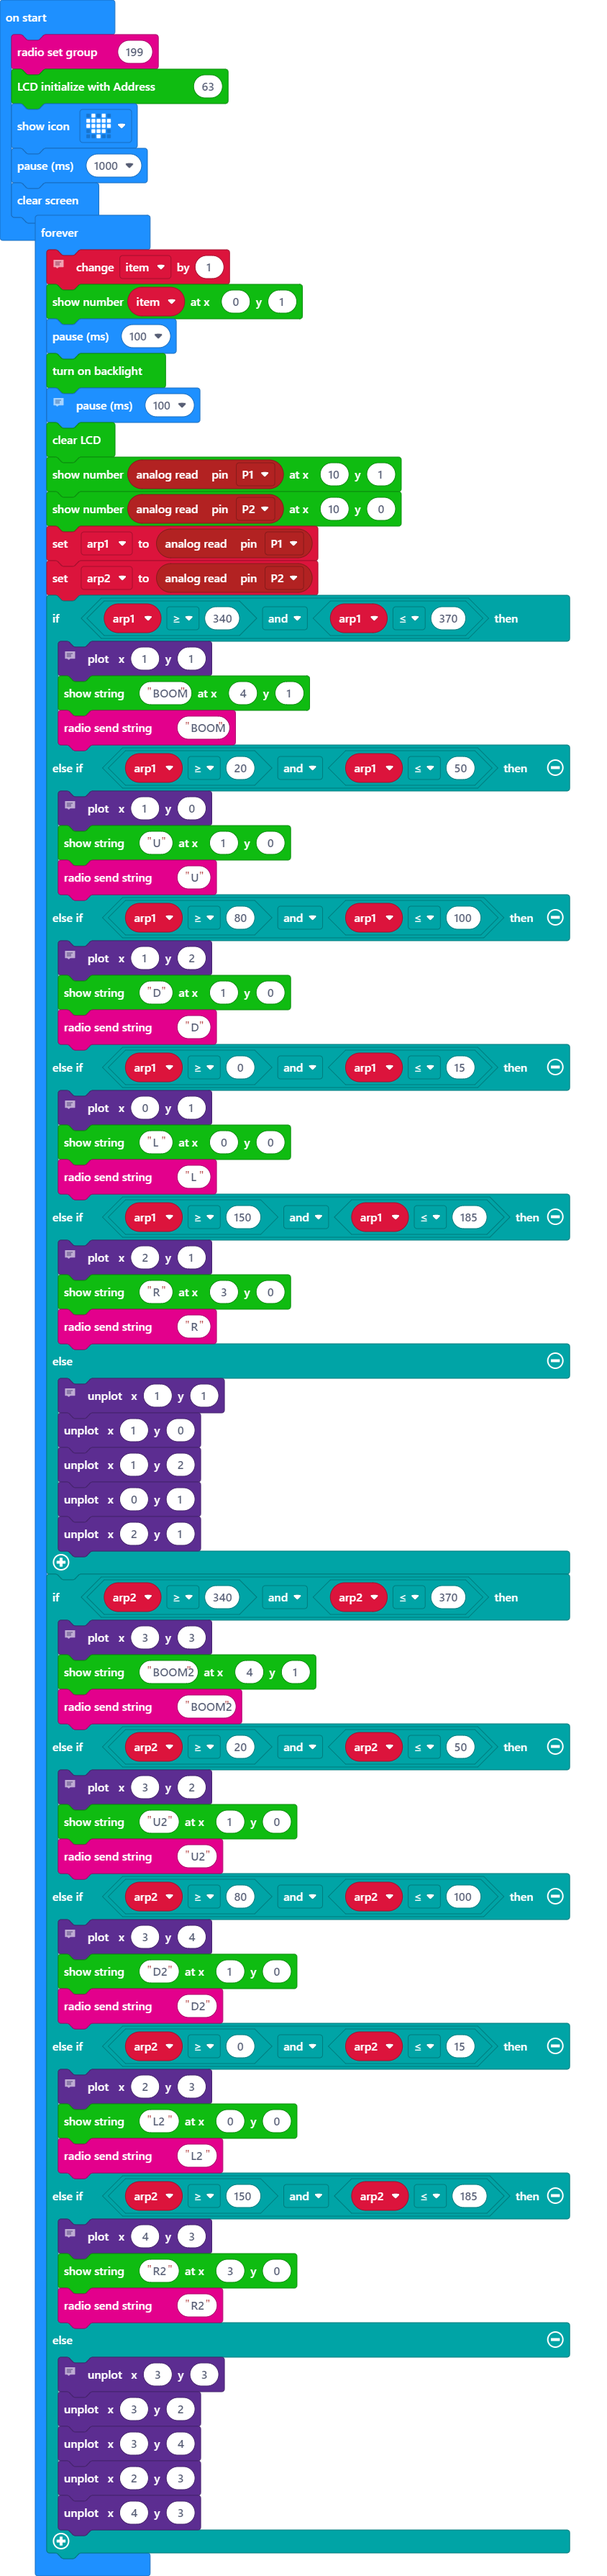
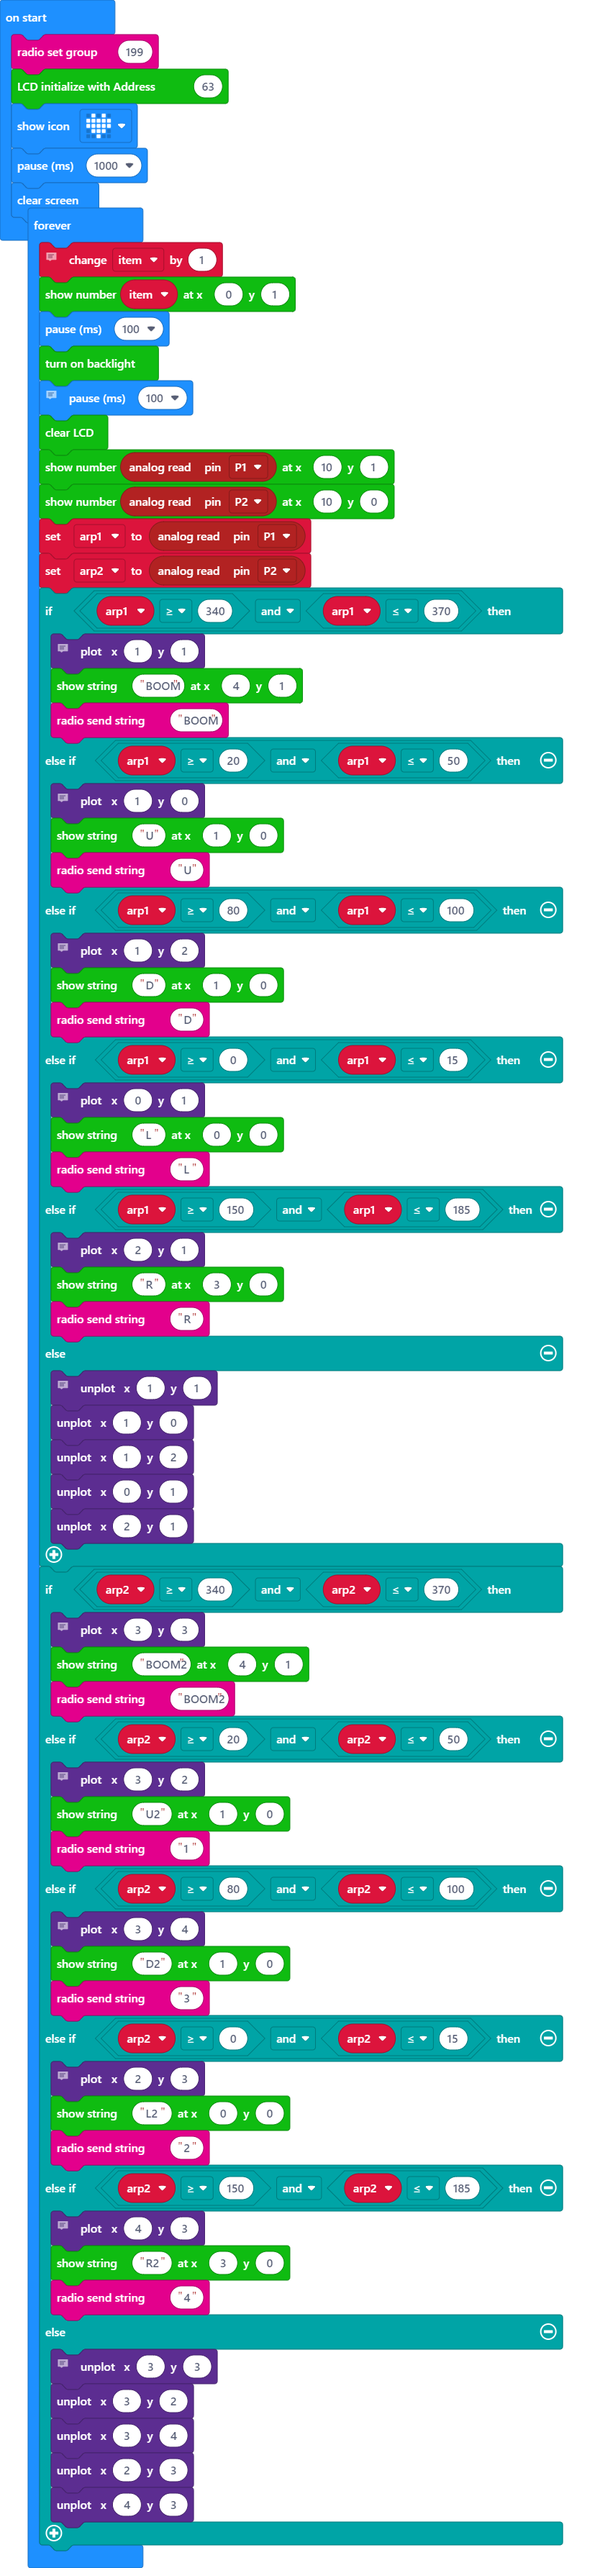
Update main.blocks, main.ts

diff --git a/main.ts b/main.ts
@@ -61,22 +61,22 @@ basic.forever(function () {
         // UP
         led.plot(3, 2)
         I2C_LCD1602.ShowString("U2", 1, 0)
-        radio.sendString("U2")
+        radio.sendString("1")
     } else if (arp2 >= 80 && arp2 <= 100) {
         // DOWN
         led.plot(3, 4)
         I2C_LCD1602.ShowString("D2", 1, 0)
-        radio.sendString("D2")
+        radio.sendString("3")
     } else if (arp2 >= 0 && arp2 <= 15) {
         // LEFT
         led.plot(2, 3)
         I2C_LCD1602.ShowString("L2", 0, 0)
-        radio.sendString("L2")
+        radio.sendString("2")
     } else if (arp2 >= 150 && arp2 <= 185) {
         // RIGHT
         led.plot(4, 3)
         I2C_LCD1602.ShowString("R2", 3, 0)
-        radio.sendString("R2")
+        radio.sendString("4")
     } else {
         // EMPTY
         led.unplot(3, 3)
